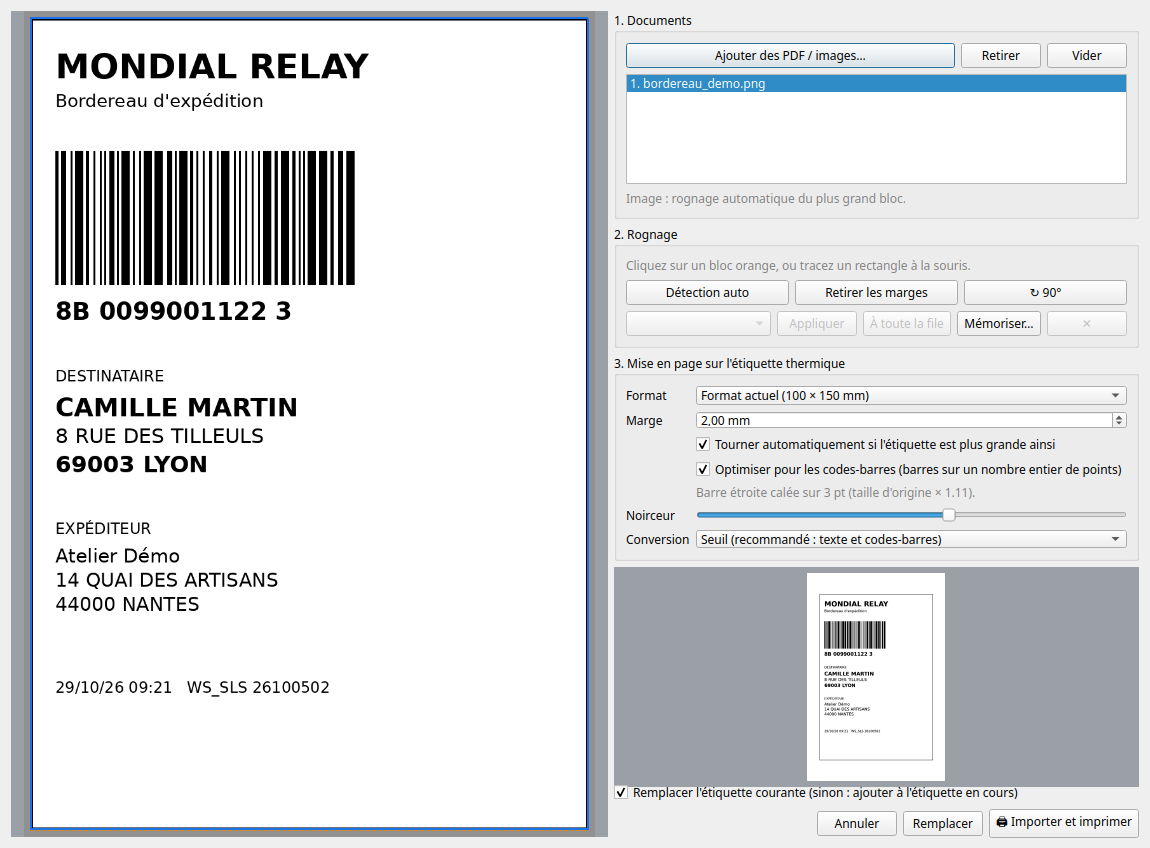
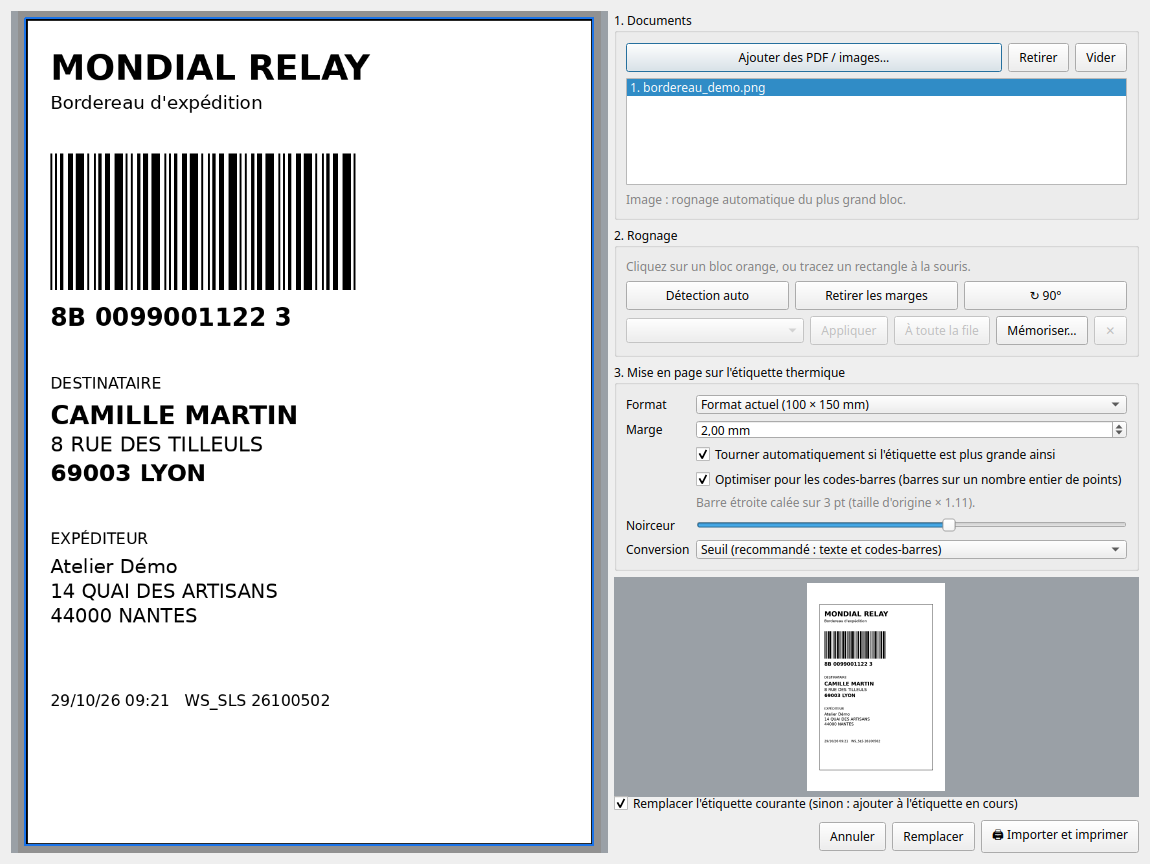
Docs : régénère les captures du README depuis l'application
Les captures du tutoriel vieillissaient en silence : le texte d'aide de l'onglet Connexion
avait déjà changé sans qu'aucune image ne suive, faute de pouvoir les refaire autrement
qu'à la main. Un script les produit désormais à partir du vrai code, en Qt hors écran, avec
la même liste de captures que le README.

L'opération est sans effet de bord : QSettings pointe vers un dossier temporaire, la
découverte Bluetooth renvoie un appareil fictif et la vérification périodique de
l'imprimante est neutralisée — sinon l'appareil présélectionné déclenchait une vraie
connexion RFCOMM, et son thread survivait à la capture. Le bordereau de démonstration est
dessiné par le script, avec des coordonnées inventées.

apply_style() est extrait de main.py pour que les captures héritent de l'habillage exact de
l'application, et le README gagne la section correspondante (décompte de tests corrigé au
passage).

🤖 Generated with Codebuff

diff --git a/outils/captures.py b/outils/captures.py
@@ -1,0 +1,220 @@
+"""Génère les captures du README à partir de l'application réelle, sans écran ni imprimante.
+
+    ./captures.sh              # les quatre images de docs/screenshots
+    ./captures.sh import       # une seule (editeur, element, connexion, import)
+
+Rien n'est fabriqué à la main : les fenêtres sont celles du programme, rendues par Qt en mode
+« offscreen ». Deux précautions rendent l'opération inoffensive et reproductible :
+  - QSettings pointe vers un dossier temporaire, la configuration de l'utilisateur est intacte ;
+  - la découverte Bluetooth est simulée (un appareil fictif), donc aucun matériel n'est requis.
+
+Le bordereau de démonstration de la capture d'import est dessiné ici même : noms, adresses et
+numéro de suivi sont inventés.
+"""
+
+from __future__ import annotations
+
+import argparse
+import os
+import sys
+import tempfile
+import time
+from contextlib import contextmanager
+from pathlib import Path
+from unittest import mock
+
+ROOT = Path(__file__).resolve().parent.parent
+sys.path.insert(0, str(ROOT))
+os.environ.setdefault("QT_QPA_PLATFORM", "offscreen")  # avant toute création de QApplication
+
+from PIL import Image, ImageDraw, ImageFont  # noqa: E402
+from PyQt6.QtCore import QSettings  # noqa: E402
+from PyQt6.QtWidgets import QApplication, QWidget  # noqa: E402
+
+from labelstudio import printer, templates  # noqa: E402
+from labelstudio.ui.import_dialog import ImportDialog  # noqa: E402
+from labelstudio.ui.main_window import MainWindow  # noqa: E402
+
+OUT = ROOT / "docs" / "screenshots"
+SHOTS = ("editeur", "element", "connexion", "import")
+DEMO_DEVICE = ("AA:BB:CC:DD:EE:FF", "PM-241-BT")  # appareil fictif de la capture « Connexion »
+
+
+# ---------------------------------------------------------------- outils
+def pump(app: QApplication, seconds: float) -> None:
+    """Laisse Qt traiter les événements (peinture, minuteurs) pendant un instant."""
+    end = time.monotonic() + seconds
+    while time.monotonic() < end:
+        app.processEvents()
+        time.sleep(0.01)
+
+
+@contextmanager
+def settings_sandbox():
+    """Redirige QSettings vers un dossier temporaire (les deux formats : Qt résout via Native)."""
+    with tempfile.TemporaryDirectory() as tmp:
+        QSettings.setDefaultFormat(QSettings.Format.IniFormat)
+        for fmt in (QSettings.Format.IniFormat, QSettings.Format.NativeFormat):
+            QSettings.setPath(fmt, QSettings.Scope.UserScope, tmp)
+        yield
+
+
+@contextmanager
+def demo_hardware():
+    """Remplace la découverte matérielle : un seul appareil appairé, fictif.
+
+    La vérification périodique est neutralisée : l'appareil fictif étant sélectionné, elle
+    ouvrirait une vraie connexion RFCOMM vers cette adresse à chaque capture.
+    """
+    patches = [
+        mock.patch.object(printer, "list_paired_devices", return_value=[DEMO_DEVICE]),
+        mock.patch.object(printer, "list_usb_devices", return_value=[]),
+        mock.patch.object(printer, "list_serial_ports", return_value=[]),
+        mock.patch.object(MainWindow, "check_printer"),
+    ]
+    for patch in patches:
+        patch.start()
+    try:
+        yield
+    finally:
+        for patch in reversed(patches):
+            patch.stop()
+
+
+def window(app: QApplication) -> MainWindow:
+    """Fenêtre principale prête à être capturée (état de l'imprimante déjà stabilisé)."""
+    win = MainWindow()
+    win.resize(1400, 900)
+    win.show()
+    pump(app, 1.6)  # laisse la première vérification d'imprimante poser « non configurée »
+    return win
+
+
+def grab(widget: QWidget, name: str) -> Path:
+    path = OUT / f"{name}.png"
+    widget.grab().save(str(path), "PNG")
+    print(f"  ✔ {path.relative_to(ROOT)}")
+    return path
+
+
+def font(size: int, bold: bool = False) -> ImageFont.FreeTypeFont | ImageFont.ImageFont:
+    path = f"/usr/share/fonts/truetype/dejavu/DejaVuSans{'-Bold' if bold else ''}.ttf"
+    try:
+        return ImageFont.truetype(path, size)
+    except OSError:
+        return ImageFont.load_default()
+
+
+def demo_bordereau(path: Path) -> Path:
+    """Bordereau 100 % fictif : mêmes repères visuels qu'un vrai (cadre, code-barres, adresses)."""
+    width, height = 900, 1300
+    img = Image.new("RGB", (width, height), "white")
+    draw = ImageDraw.Draw(img)
+    draw.rectangle((12, 12, width - 13, height - 13), outline="black", width=3)
+    draw.text((50, 55), "MONDIAL RELAY", font=font(54, True), fill="black")
+    draw.text((50, 125), "Bordereau d'expédition", font=font(28), fill="black")
+    x, step = 50, 0
+    while x < 520:  # code-barres décoratif, largeurs variées mais reproductibles
+        bar = (3, 3, 5, 8, 13)[step % 5]
+        draw.rectangle((x, 220, x + bar - 1, 430), fill="black")
+        x += bar + (4, 5, 7)[step % 3]
+        step += 1
+    draw.text((50, 450), "8B 0099001122 3", font=font(38, True), fill="black")
+    draw.text((50, 560), "DESTINATAIRE", font=font(24), fill="black")
+    draw.text((50, 600), "CAMILLE MARTIN", font=font(40, True), fill="black")
+    draw.text((50, 650), "8 RUE DES TILLEULS", font=font(32), fill="black")
+    draw.text((50, 692), "69003 LYON", font=font(36, True), fill="black")
+    draw.text((50, 800), "EXPÉDITEUR", font=font(24), fill="black")
+    draw.text((50, 840), "Atelier Démo", font=font(30), fill="black")
+    draw.text((50, 878), "14 QUAI DES ARTISANS", font=font(30), fill="black")
+    draw.text((50, 916), "44000 NANTES", font=font(30), fill="black")
+    draw.text((50, 1050), "29/10/26 09:21   WS_SLS 26100502", font=font(24), fill="black")
+    img.save(path)
+    return path
+
+
+# ---------------------------------------------------------------- captures
+def shot_editeur(app: QApplication) -> None:
+    """Éditeur : modèle d'expédition, liste des éléments, onglet Étiquette, commandes TSPL."""
+    win = window(app)
+    try:
+        win.right_tabs.setCurrentIndex(0)
+        pump(app, 0.4)
+        grab(win, "editeur")
+    finally:
+        win.close()
+        win.deleteLater()
+
+
+def shot_element(app: QApplication) -> None:
+    """Un code-barres sélectionné, panneau Élément ouvert sur ses propriétés."""
+    win = window(app)
+    try:
+        row = next((i for i, el in enumerate(win.label.elements) if el.kind == "barcode"), -1)
+        win._select(row)  # sélectionne sur l'aperçu et bascule sur l'onglet Élément
+        pump(app, 0.5)
+        grab(win, "element")
+    finally:
+        win.close()
+        win.deleteLater()
+
+
+def shot_connexion(app: QApplication) -> None:
+    """Onglet Connexion : appareil appairé simulé, adresse, canal, boutons d'appairage."""
+    win = window(app)
+    try:
+        panel = win.conn_panel
+        win.right_tabs.setCurrentIndex(2)
+        panel.kind.setCurrentIndex(max(0, panel.kind.findData("bluetooth")))
+        panel.mac.setText(DEMO_DEVICE[0])
+        panel.channel.setValue(1)
+        panel.refresh_devices()
+        pump(app, 0.4)
+        grab(win, "connexion")
+    finally:
+        win.close()
+        win.deleteLater()
+
+
+def shot_import(app: QApplication) -> None:
+    """Boîte d'import ouverte sur le bordereau fictif, rognage et aperçu calculés."""
+    with tempfile.TemporaryDirectory() as tmp:
+        demo = demo_bordereau(Path(tmp) / "bordereau_demo.png")
+        dialog = ImportDialog(templates.blank().settings, [str(demo)])
+        dialog.resize(1150, 848)
+        dialog.show()
+        try:
+            end = time.monotonic() + 15
+            while time.monotonic() < end and not (dialog.items and dialog.view.crop):
+                app.processEvents()
+                time.sleep(0.03)
+            pump(app, 2.5)  # laisse l'aperçu final se calculer
+            grab(dialog, "import")
+        finally:
+            dialog.close()
+            dialog.deleteLater()
+
+
+def main(argv: list[str] | None = None) -> int:
+    parser = argparse.ArgumentParser(description="Régénère les captures du README.")
+    parser.add_argument("shots", nargs="*", choices=SHOTS,
+                        help="captures à produire (défaut : toutes)")
+    args = parser.parse_args(argv)
+    wanted = args.shots or list(SHOTS)
+
+    OUT.mkdir(parents=True, exist_ok=True)
+    with settings_sandbox(), demo_hardware():
+        app = QApplication.instance() or QApplication([])
+        from main import apply_style  # même habillage que l'application lancée normalement
+
+        apply_style(app)
+        print(f"Captures dans {OUT.relative_to(ROOT)} :")
+        for name, shot in (("editeur", shot_editeur), ("element", shot_element),
+                           ("connexion", shot_connexion), ("import", shot_import)):
+            if name in wanted:
+                shot(app)
+    return 0
+
+
+if __name__ == "__main__":
+    sys.exit(main())

diff --git a/main.py b/main.py
@@ -8,8 +8,8 @@ from PyQt6.QtWidgets import QApplication
 from labelstudio.ui.main_window import MainWindow
 
 
-def main() -> int:
-    app = QApplication(sys.argv)
+def apply_style(app: QApplication) -> None:
+    """Habillage commun à l'application et aux captures du README (outils/captures.py)."""
     app.setApplicationName("Phomemo Label Studio")
     app.setStyle("Fusion")
     app.setStyleSheet(
@@ -17,6 +17,11 @@ def main() -> int:
         "QPushButton { padding: 5px 10px; }"
         "QDockWidget::title { padding: 5px; font-weight: 600; }"
     )
+
+
+def main() -> int:
+    app = QApplication(sys.argv)
+    apply_style(app)
     window = MainWindow()
     window.show()
     return app.exec()
